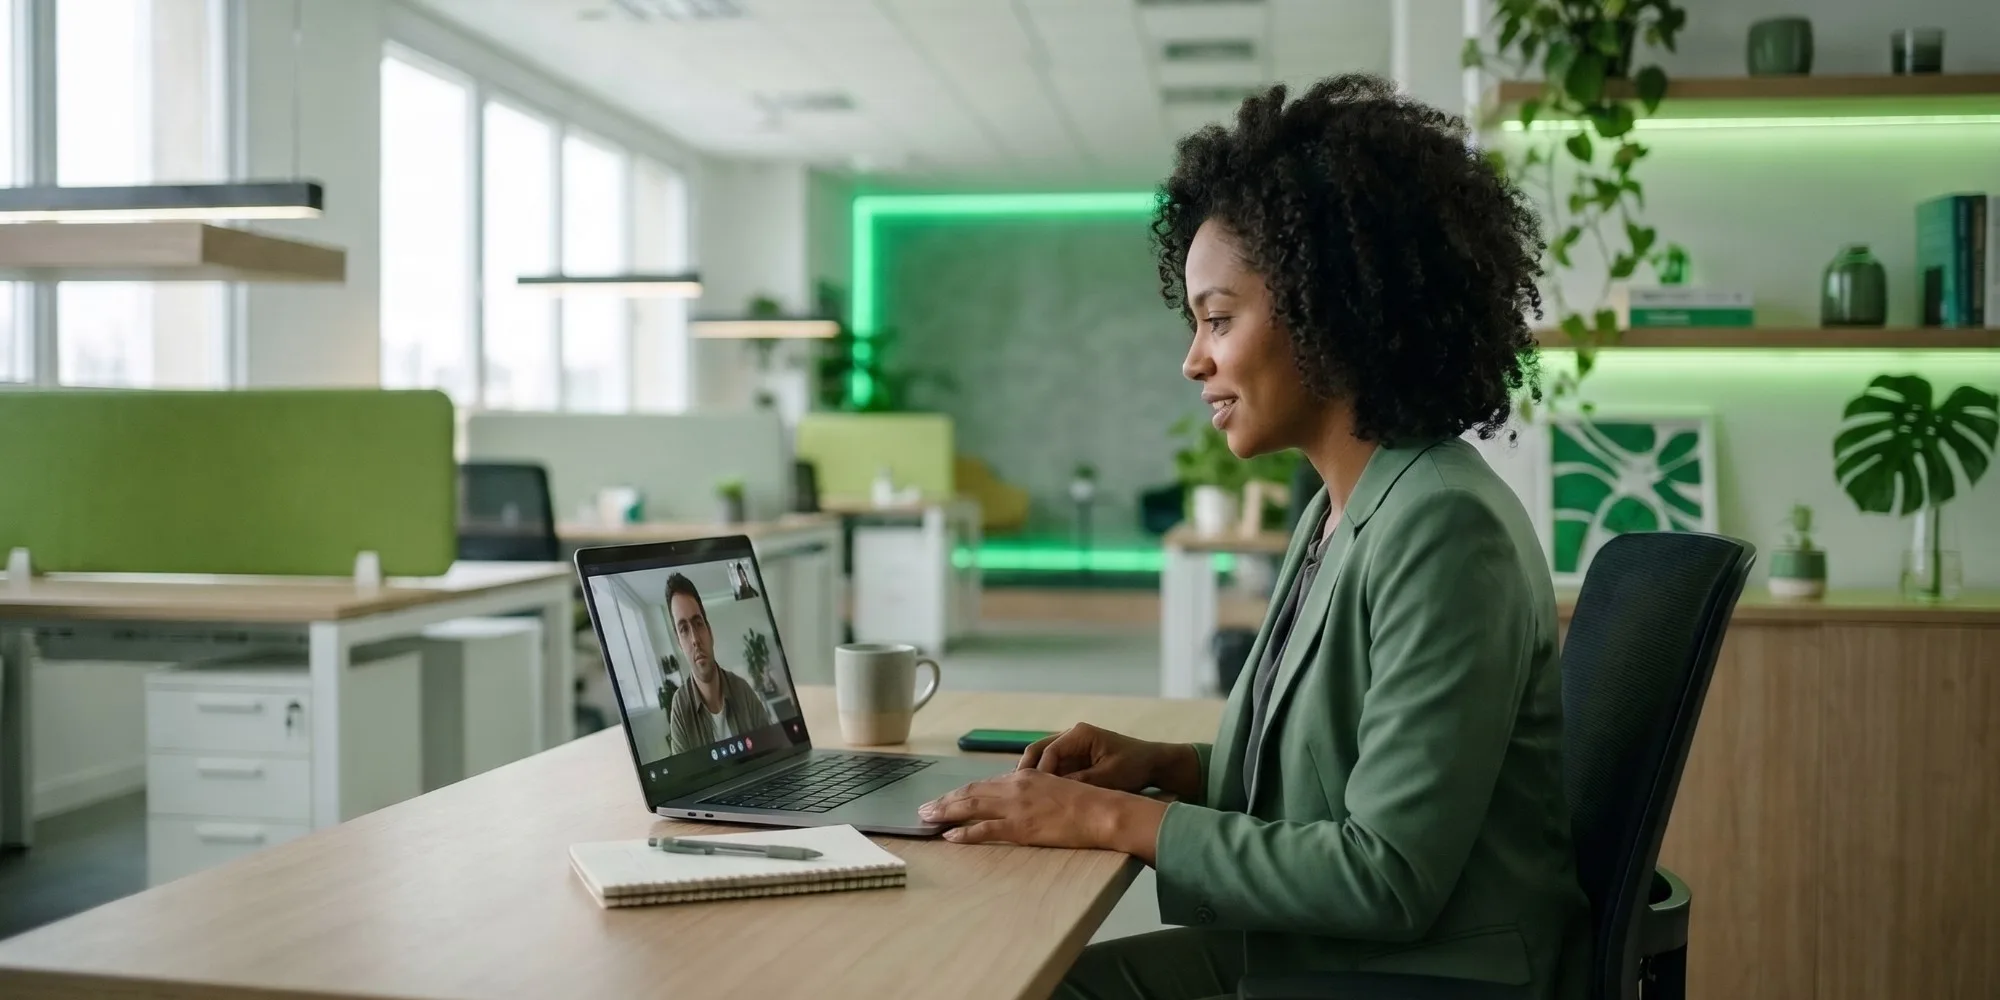
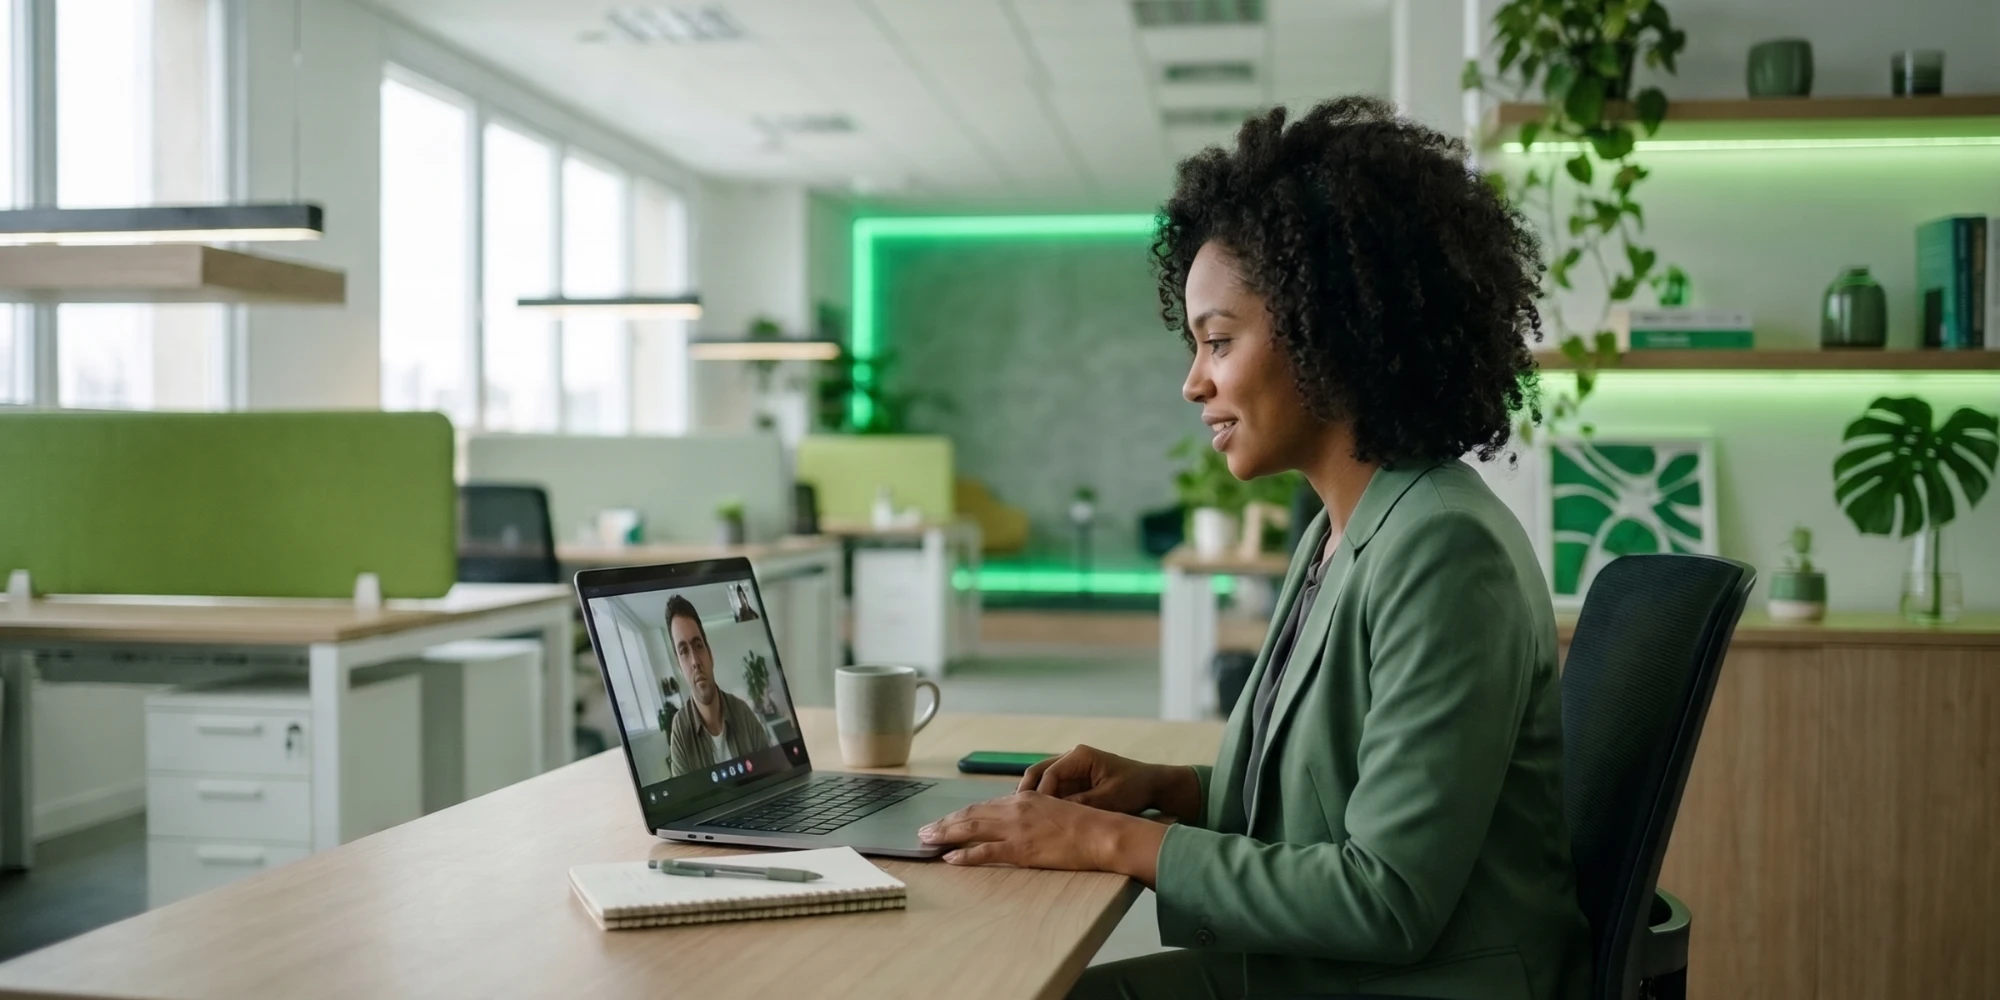
Blog: imagem do guia de maconha e nova imagem da psicóloga

diff --git a/lib/guias.ts b/lib/guias.ts
@@ -949,8 +949,9 @@ export const GUIAS: Guia[] = [
           "Dá pra diminuir alguns riscos: evitar o uso diário, não prender a fumaça, não misturar com álcool ou tabaco e não dirigir depois de usar. Risco menor não é risco zero.",
       },
     ],
-    imagem: false,
-    imagemAlt: "",
+    imagem: true,
+    imagemAlt: "Mão soltando um baseado sobre uma lixeira.",
+    imagemCard: true,
   },
   {
     slug: "como-parar-de-usar-cocaina",
